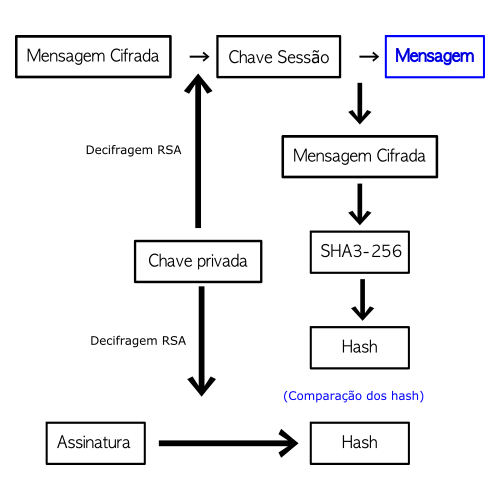
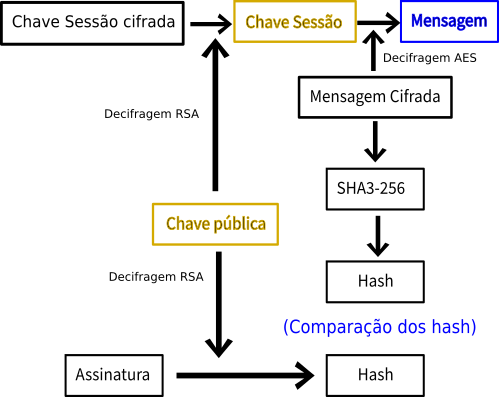
Relatorio finalizado

Changed region(s): [[0.0, 0.0, 1.0, 1.0]]

diff --git a/doc/descritivo.tex b/doc/descritivo.tex
@@ -119,9 +119,11 @@ No programa, o que é cifrado pelo RSA é o hash do criptograma da mensagem gera
 
 O AES foi usado no modo CTR com o nonce fixo no valor 0 para a cifração simétrica da mensagem, que é usada para gerar o hash, sendo usada a chave de sessão para cifrar e decifrar. A implementação da cifra de blocos foi aproveitada do trabalho anterior da disciplina de segurança computacional, podendo ser econtrada na pasta \texttt{src/aes/}.
 
+A geração da chave é feita na pasta \texttt{keys/}, sendo nomeada \texttt{session} e concatenada com um id incremental. Consequentemente, será gerado o arquivo de mesmo nome porém com a extensão \texttt{.pub} que representa a mesma chave porém cifrada pelo RSA e é a usada na verificação da assinatura, porém deve ser decifrada antes de ser utilizada. 
+
 \section{Assinatura}
 
-Para a assinatura, foi criado um hash do criptograma gerado pelo AES usando a função \texttt{sha3\_256} da \texttt{hashlib} diponibilizada pela linguagem python. Para a formatação dos valores ao escrevê-los em arquivos, foi usado o \texttt{base64}, que é disponibilizado pelo python também, dispondo de operações para codificar e decodificar no formato. A implementação completa pode ser resumida às imagens abaixo:
+Para a assinatura, foi criado um hash do criptograma gerado pelo AES usando a função \texttt{sha3\_256} da \texttt{hashlib} diponibilizada pela linguagem python. Para a formatação dos valores ao escrevê-los em arquivos, foi usado o \texttt{base64}, que é disponibilizado pelo python também, dispondo de operações para codificar e decodificar no formato. A assinatura do documento é gerada em um arquivo separado que tem o mesmo nome do output (criptograma da mensagem) concatenado com um \texttt{\_sign}. A implementação completa pode ser resumida às imagens abaixo:
 
 \begin{figure}[H]
 	\centering
